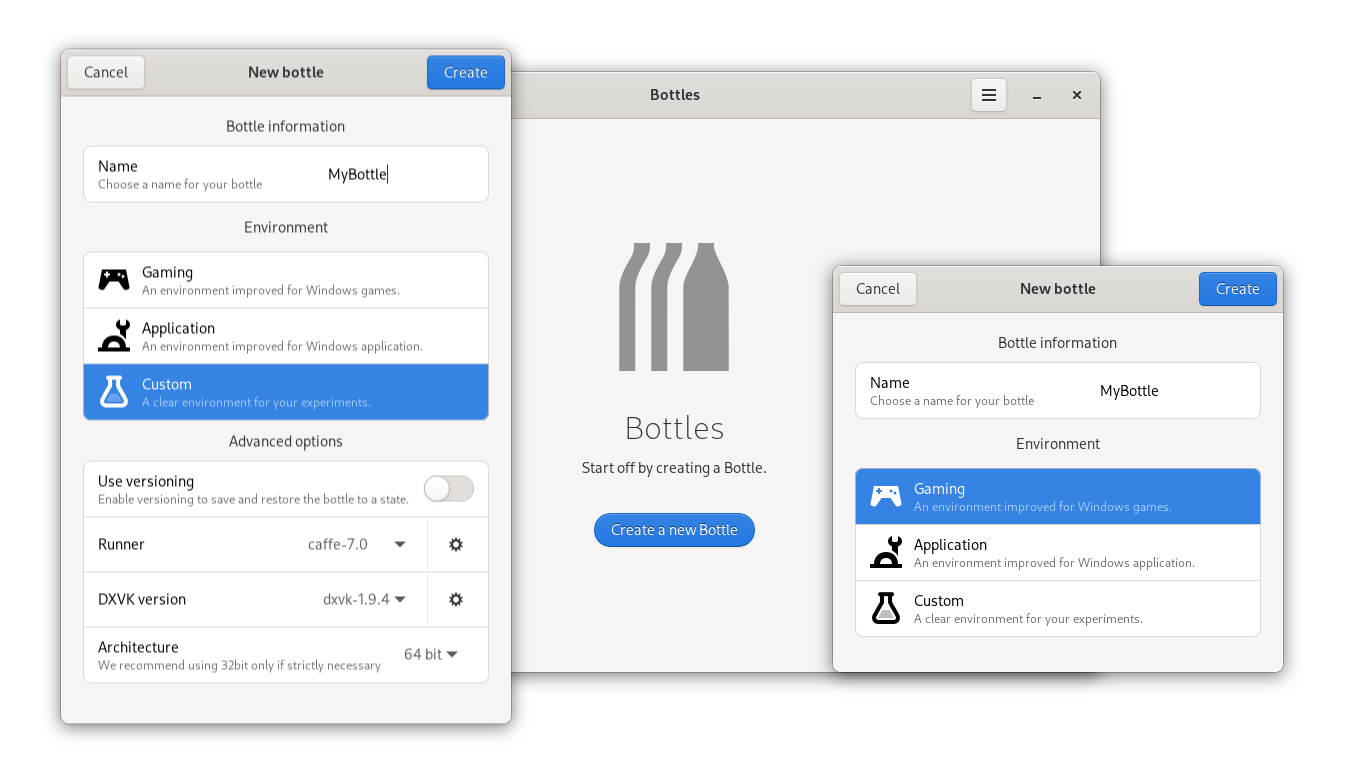
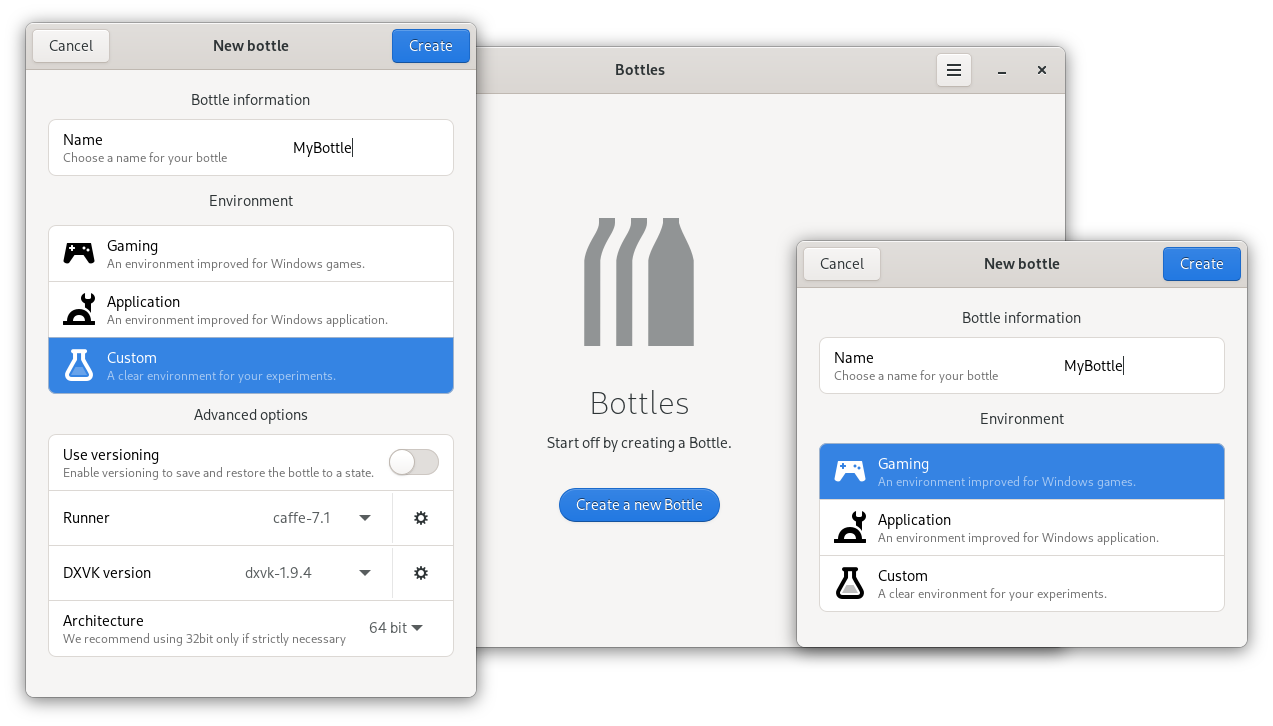
release day 2022.2.14

diff --git a/assets/css/style.css b/assets/css/style.css
@@ -138,6 +138,10 @@ h3 {
     font-size: 1.4rem;
 }
 
+h4 {
+    font-size: 1.2rem;
+}
+
 section.hero h1 {
     /* font-weight: 400; */
     margin: 0;

diff --git a/_posts/2022-02-14-release-2022.2.14.md b/_posts/2022-02-14-release-2022.2.14.md
@@ -1,0 +1,225 @@
+---
+title: "Release day 2022.2.14"
+description: "Today is release day!"
+published: 2022-02-14
+layout: post
+thumb: https://raw.githubusercontent.com/bottlesdevs/data/main/releases/2022.2.14/release-day.png
+background: https://raw.githubusercontent.com/bottlesdevs/data/main/backgrounds/2022.2.14.png
+published: true
+comments: true
+is_release_day: true
+is_release_day_color: '#e9a01d'
+---
+
+It’s Release Day again!
+
+Another two weeks of work has been done and it's time to celebrate another
+release day!
+
+This release brings with it many new features, some in great demand and others 
+that you are sure you will like. Even if the project grows fast and each new 
+version has always introduced something new, this update is a game changer 
+because it takes Bottles out of the concept of the common wineprefix manager 
+and enters the automation of the software installation. Ok, this is something 
+that has actually already been seen in other programs but in ours we have tried 
+to do things a little differently, we will talk about it shortly.
+
+## News
+Ok now let's get to the point. What's new in this version?
+
+### Installers
+In 2019 we announced Bottles v2, a complete rewrite of the project that 
+included a bunch of very pretentious features, including versioning, a 
+dependency manager, a component manager and support for installers. All these 
+features have been integrated a little at a time and today we officially 
+announce the arrival of the installers, completing the circle.
+
+#### What are installers?
+These are sets of instructions interpreted by Bottles to replicate the 
+installation of a program. This process is written in manifest files by the 
+maintainers, who were able to install the program following the same steps.
+
+Unlike other managers, these installers use the structure and tools offered by 
+Bottles to automate the entire process and not break the "logic" of the bottles, 
+keeping all the logged parameters (dxvk, vkd3d, esync, fsync ..) as well as 
+the dependencies. Versioning will also be used if enabled, to create restore 
+points in the installation phase (this is the level of integration we are 
+talking about, each new version must be able to be exploited by the installers 
+directly or indirectly, creating a single ecosystem where each component 
+communicates perfectly with the others).
+
+#### How to use them?
+Now the installers are enabled by default, just open the bottle you are 
+interested in and access the Installers section, then choose the one you are 
+interested in and press the button to install it.
+
+![Bottles installers](/uploads/bottles-installers.png)
+
+In the list you will also see a grade **(Bronze, Silver, Gold, Platinum)**, 
+these indicate the compatibility level of the application. Unlike others, the 
+grade is decided after the installation of the program, including all the 
+tweaks applied by the installer, thus evaluating the final user experience of 
+the program and not how "complex" it was to install it.
+
+So if a program is rated Bronze, it means that everything that (at the moment) 
+could be done has been done to make it go, the program works but not perfectly 
+(graphical glitches, rare crashes) and some features are not accessible. If it 
+is Silver it means that everything works but that there may be minor bugs or 
+minor functionalities blocked, then Gold if all the functionalities are 
+accessible and any glitches are not blocking. If the rank is Platinum it means 
+everything works perfectly.
+
+<div class="grid-pics">
+    <img src="/uploads/installer-manifest.png" title="Installer manifest" />
+    <img src="/uploads/installer-review.png" title="Installer review" />
+</div>
+
+Each maintainer must review the installer before publishing it and making it 
+accessible to everyone. This and the manifest are accessible from the 
+installers screen, using the installer context menu.
+
+When the installation procedure is complete, you will be able to go back to the 
+programs list and find the installed program, ready to run. You can run the 
+installation multiple times even in the same bottle, so if a major update is 
+done by the maintainer, or you just broke something and want to "refresh the 
+installation", just re-install it. Obviously this will detect that the program 
+is already installed and in many cases you will be offered to repair it, so it 
+will be up to you to decide how to act, however dependencies and parameters of 
+the bottle will be re-aligned with the installer instructions.
+
+> At the moment there is no notification of an installer update but it will 
+> come with a later version.
+
+Installers define the required arch to run them, so if you are running a win32
+bottle, all win64 installers will not be shown in the list.
+
+### Change bottles default location
+Most requested feature ever. I know you asked for it too.
+
+With this release it is possible to change the default path where bottles are 
+stored. This is very useful if you want to use an external drive, a dedicated 
+partition or just have them in another location.
+
+![Bottles default location](/uploads/bottles-custom-path.png)
+
+To enable it simply go to Bottles preferences and look for the Custom bottles 
+path item in the Advanced section in General (Bottles restart required).
+
+> Note that in the case of Flatpak, you will need to give Bottles permission 
+> to access the path if it is outside the sandbox. Read the documentation 
+> [here](https://docs.usebottles.com/flatpak/expose-directories).
+
+Changing the path, your bottles present in the original path will remain 
+(if there are any). You can reset the setting at any time always from the 
+Bottles Preferences.
+
+### Runtime for everyone
+A few releases ago we [announced the Bottles Runtime](https://usebottles.com/blog/release-2021.12.14/#bottles-runtime), 
+a bundle of useful libraries and resources that (if any) injecta Bottles into 
+its environment to ensure runner compatibility.
+
+As the functionality was still on trial, it was limited to Flatpak users only 
+as it was easy to provide it directly with installation. From this release it 
+is finally available for everyone!
+
+![Bottles runtime for everyone](/uploads/bottles-core-components.png)
+
+Flatpak users will always find the latest version of the updated runtime along 
+with Bottles. All other users, on the other hand, if it is not the first 
+launch, will have to install it through the appropriate new Core section in 
+the Bottles preferences, in the first launch it will be installed together with 
+all the other essential components (*~ 10MB*).
+
+Unlike other components such as runner, dxvk, dxvk-nvapi and vkd3d, this one 
+cannot be installed in multiple versions but is instead updated.
+
+### Search in bottles list
+In some cases our bottle list can become very long, it depends on how many 
+tests are done, for example if you are a maintainer or just want to do a lot 
+of experiments, so we have integrated a search bar.
+
+![Bottles search](/uploads/bottles-search.png)
+
+This hidden by default and is shown when there are at least 10 bottles.
+
+### Taskmanager improvements
+The integrated Task manager has received some improvements and the ability to 
+terminate processes. This might be an obvious feature for a Task manager but 
+Bottles' previous structure did not allow to implement it, and thanks to the 
+new WINE backend introduced in the last release, we are now able to provide it.
+
+![Bottles taskmanager](/uploads/bottles-taskmanager-update.png)
+
+To end a process, just select from the list and press the dedicated button from 
+the headerbar.
+
+## All other changes
+There are a lot of other changes and improvements in this release. Below are 
+other noteworthy ones, for all the others, refer to 
+the [GiHub organization](https://github.com/bottlesdevs).
+
+  * Install programs in one-click using our community installers
+  * Change default bottles location from preferences
+  * New repositories manager makes fewer requests and takes less time to load
+  * Runtime is now also available for non-Flatpak packages
+  * Search in bottles list if there are at least 10 items
+  * Automatically fallback to another runner if the system doesn't support Caffe 7+
+  * Installers can now declare their architecture, so incompatible installers will not be shown
+  * Dependencies can now be re-installed if something goes wrong
+  * Programs can now be launched trough terminal right from the context menu
+  * Task manager can now terminate processes
+  * WINE Explorer now available from utilities
+  * New userdir/ placeholder for installers to access sandboxed user directory
+  * Improved Windows version switch, other keys are updated to ensure that programs detect the correct version
+  * Improved health check dialog with syntax highlighting
+  * General UI improvements for consistency
+  * Introducing SystemComponents to handle unpackable components for non-Flatpak packages
+  * Support dxvk-async as a component
+  * Using XDG_DATA_HOME for default Bottles paths (Thanks @nanonyme)
+  * Gamescope support in Flatpak (Thanks @BigmenPixel0)
+  * Fixed missing GtkSource namespace, was causing crashes
+  * Fixed preferences regression, vkd3d was not displayed
+  * Fixed a bug in Executor, was passing wrong arguments
+  * Fixed a bug in WineCommand, was not getting the bottle parameters
+  * Fixed a bug in components manager, was trying to remove non-existent files
+  * Fixed a bug in DXVK version change, was removing the initial backup
+  * Fixed a bug in installers, programs list was not updated immediately
+  * Fixed a bug in programs list, uninstallers were not hidden
+  * Fixed a bug in components manager, was causing crashes with not-known componnets
+  * Fixed gamemode in Flatpak
+  * Fixed a bug in WineCommand cwd, was not setting the value
+  * Fixed a bug in Layered environment, layers key was set as list instead of dict
+  * Fixed a bug in layered programs, was not able to launch due to wrong runtime configuration location
+  * Fixed a bug in layered dependencies, tree was not updated correctly
+  * Fixed a bug with config files, was causing exceptions with missing keys
+  * Fixed a bug in update_config action, was try to handle a None value, providing a default value instead
+  * Swedish translations thanks to @bittin, @Lemonmeth, @eson57
+  * Italian translations thanks to @albanobattistella, @phaerrax
+  * Czech translations thanks to @panmourovaty
+  * Galician translations thanks to @frandieguez
+  * Russian translations thanks to @Smoque
+  * Vietnamese translations thanks to Giai Ngo
+  * French translations thanks to @ulroy67
+  * German translations thanks to Lasse Palm
+  * Portuguese translations thanks to @laralem
+  * Spanish translations thanks to @oscfdezdz, @d33vliter
+  * Norwegian Bokmål translations thanks to @comradekingu
+  * Portuguese (Brazil) translations thanks to @andrelomba86
+  * Indonesian translations thanks to @rezaalmanda, @frnmz
+  * Turkish translations thanks to @ersen0, @Dhizaes
+  * Esperanto translations thanks to phlostically
+  * Chinese (Simplified) translations thanks to Eric, @lumingzh
+  * Finnish translations thanks to Jiri Grönroos
+  * Japanese translations thanks to @shuriken1812
+  * Croatian translations thanks to @milotype
+  * Hungarian translations thanks to @ovari
+  * Polish translations thanks to Krzysztof Marcinek
+  * Hindi translations thanks to @athenasaurav
+  * Basque translations thanks to Sergio Varela
+  * Greek translations thanks to @dim20
+
+Thanks to all users who contributed to this release!
+
+~ Bottles' Developers
+
+<a class="button" href="/download" style="">Download</a> 2022.2.14
